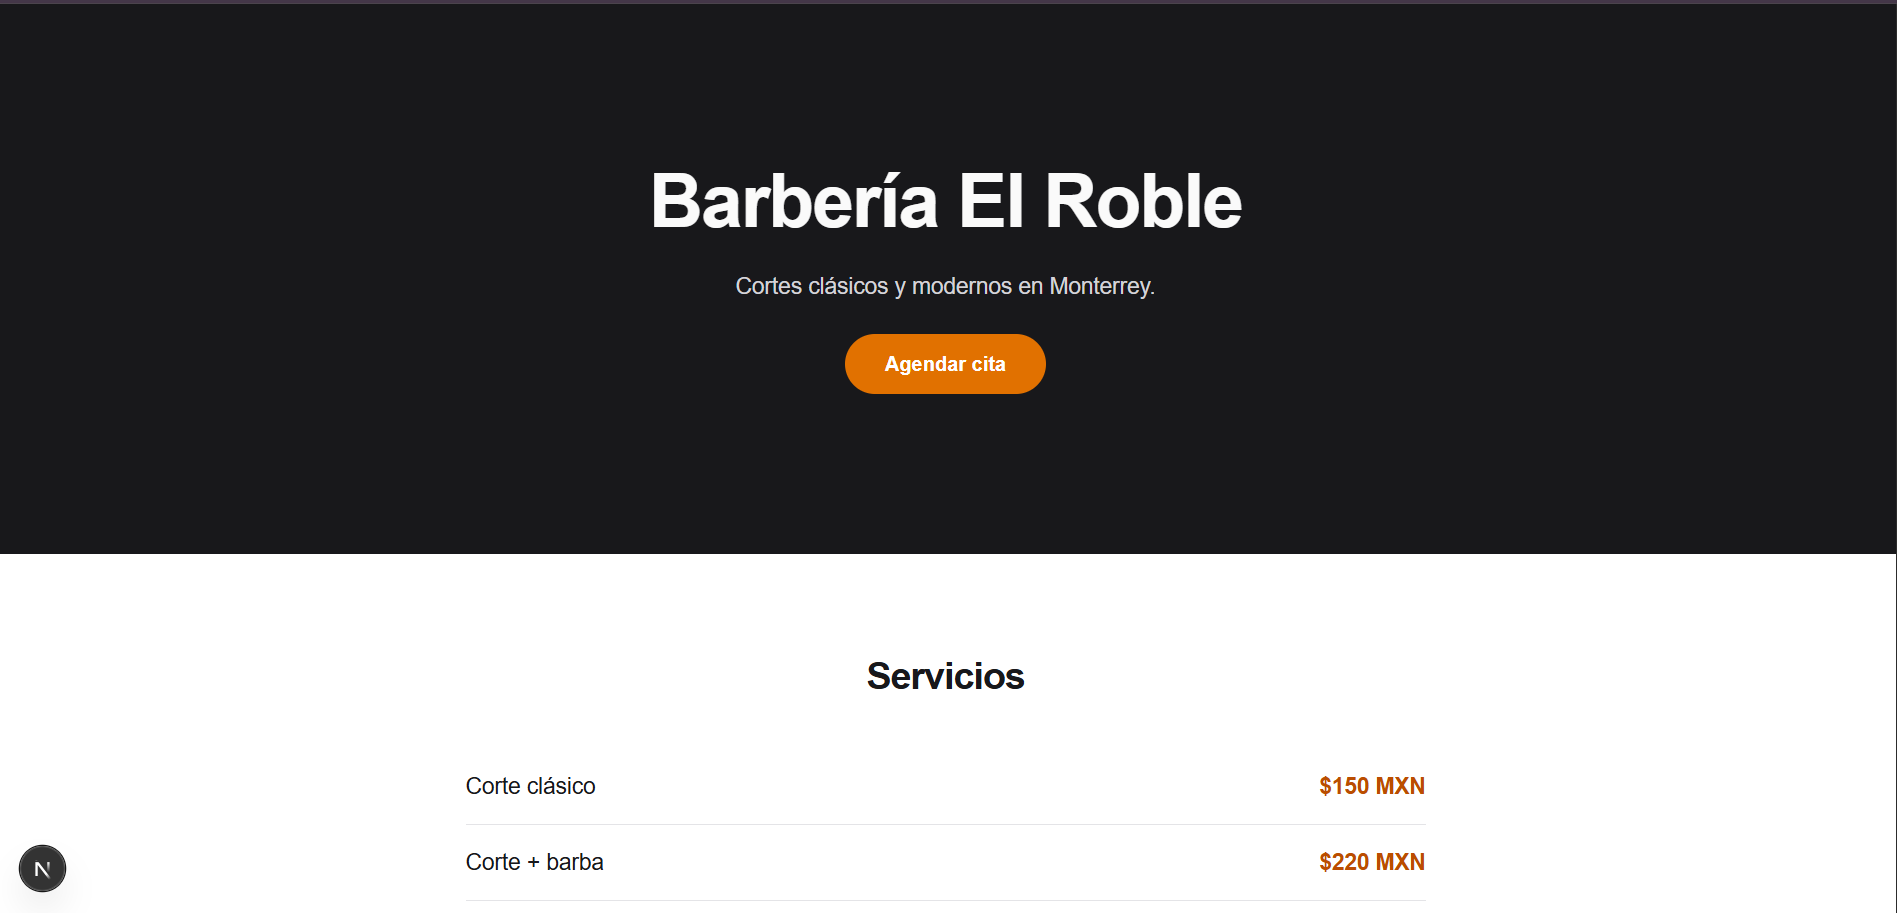
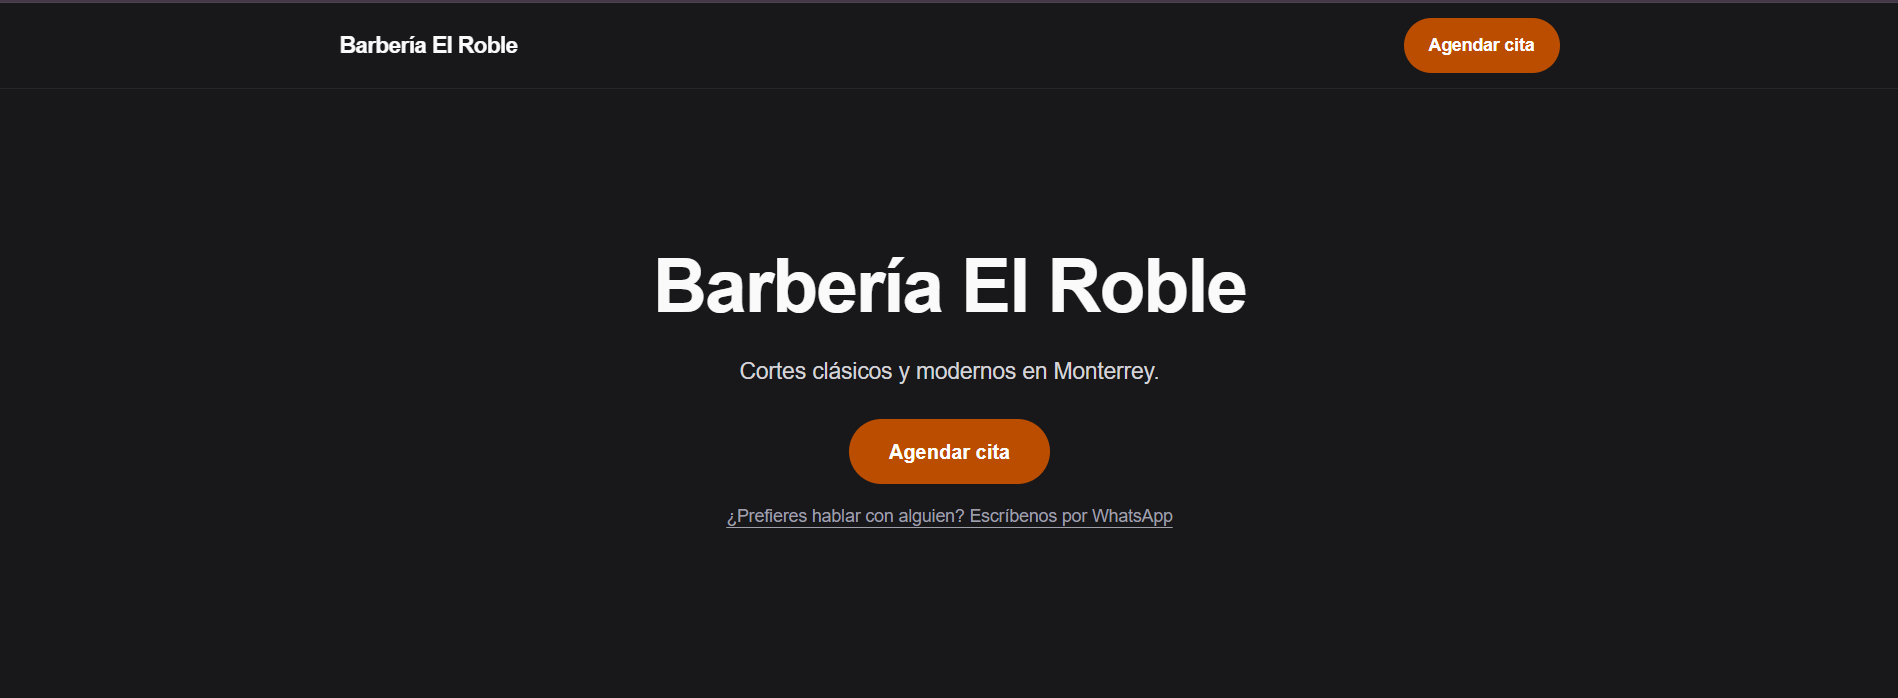
Cambio de imaganes en README.md y explicacion de cada imagen dentro de README.md

diff --git a/README.md b/README.md
@@ -5,11 +5,41 @@ o libreta, y pierden citas por no tener dónde reservar.
 
 **Demo:** https://barberia-citas-one.vercel.app/
 
-![Landing](docs/img/landing.png)
-![Servicios](docs/img/servicios.png)
-![Seleccionar](docs/img/seleccionar.png)
-![Datos](docs/img/datos.png)
-![Confirmacion](docs/img/confirmacion.png)
+## El sitio
+
+![Landing de Barbería El Roble](docs/img/landing.png)
+
+Los servicios y precios se leen desde la base de datos, así que el dueño
+los edita sin tocar código.
+
+![Servicios con precios](docs/img/servicios.png)
+
+---
+
+## Cómo se agenda una cita
+
+**1 · Elegir servicio y ver horarios reales**
+
+Solo aparecen las horas realmente libres: se descartan las ocupadas, las
+que ya pasaron, y las que no alcanzan a cubrir la duración del servicio
+antes del cierre.
+
+![Selección de horario](docs/img/seleccionar.png)
+
+**2 · Confirmar antes de dar los datos**
+
+El cliente ve exactamente qué está reservando —servicio, fecha, hora y
+precio— antes de escribir su nombre.
+
+![Datos del cliente](docs/img/datos.png)
+
+**3 · Cita agendada**
+
+La cita queda guardada con protección contra empalmes a nivel de base de
+datos: dos personas no pueden reservar el mismo horario, ni aunque lo
+intenten en el mismo instante.
+
+![Confirmación de la cita](docs/img/confirmacion.png)
 
 ## El problema
 
